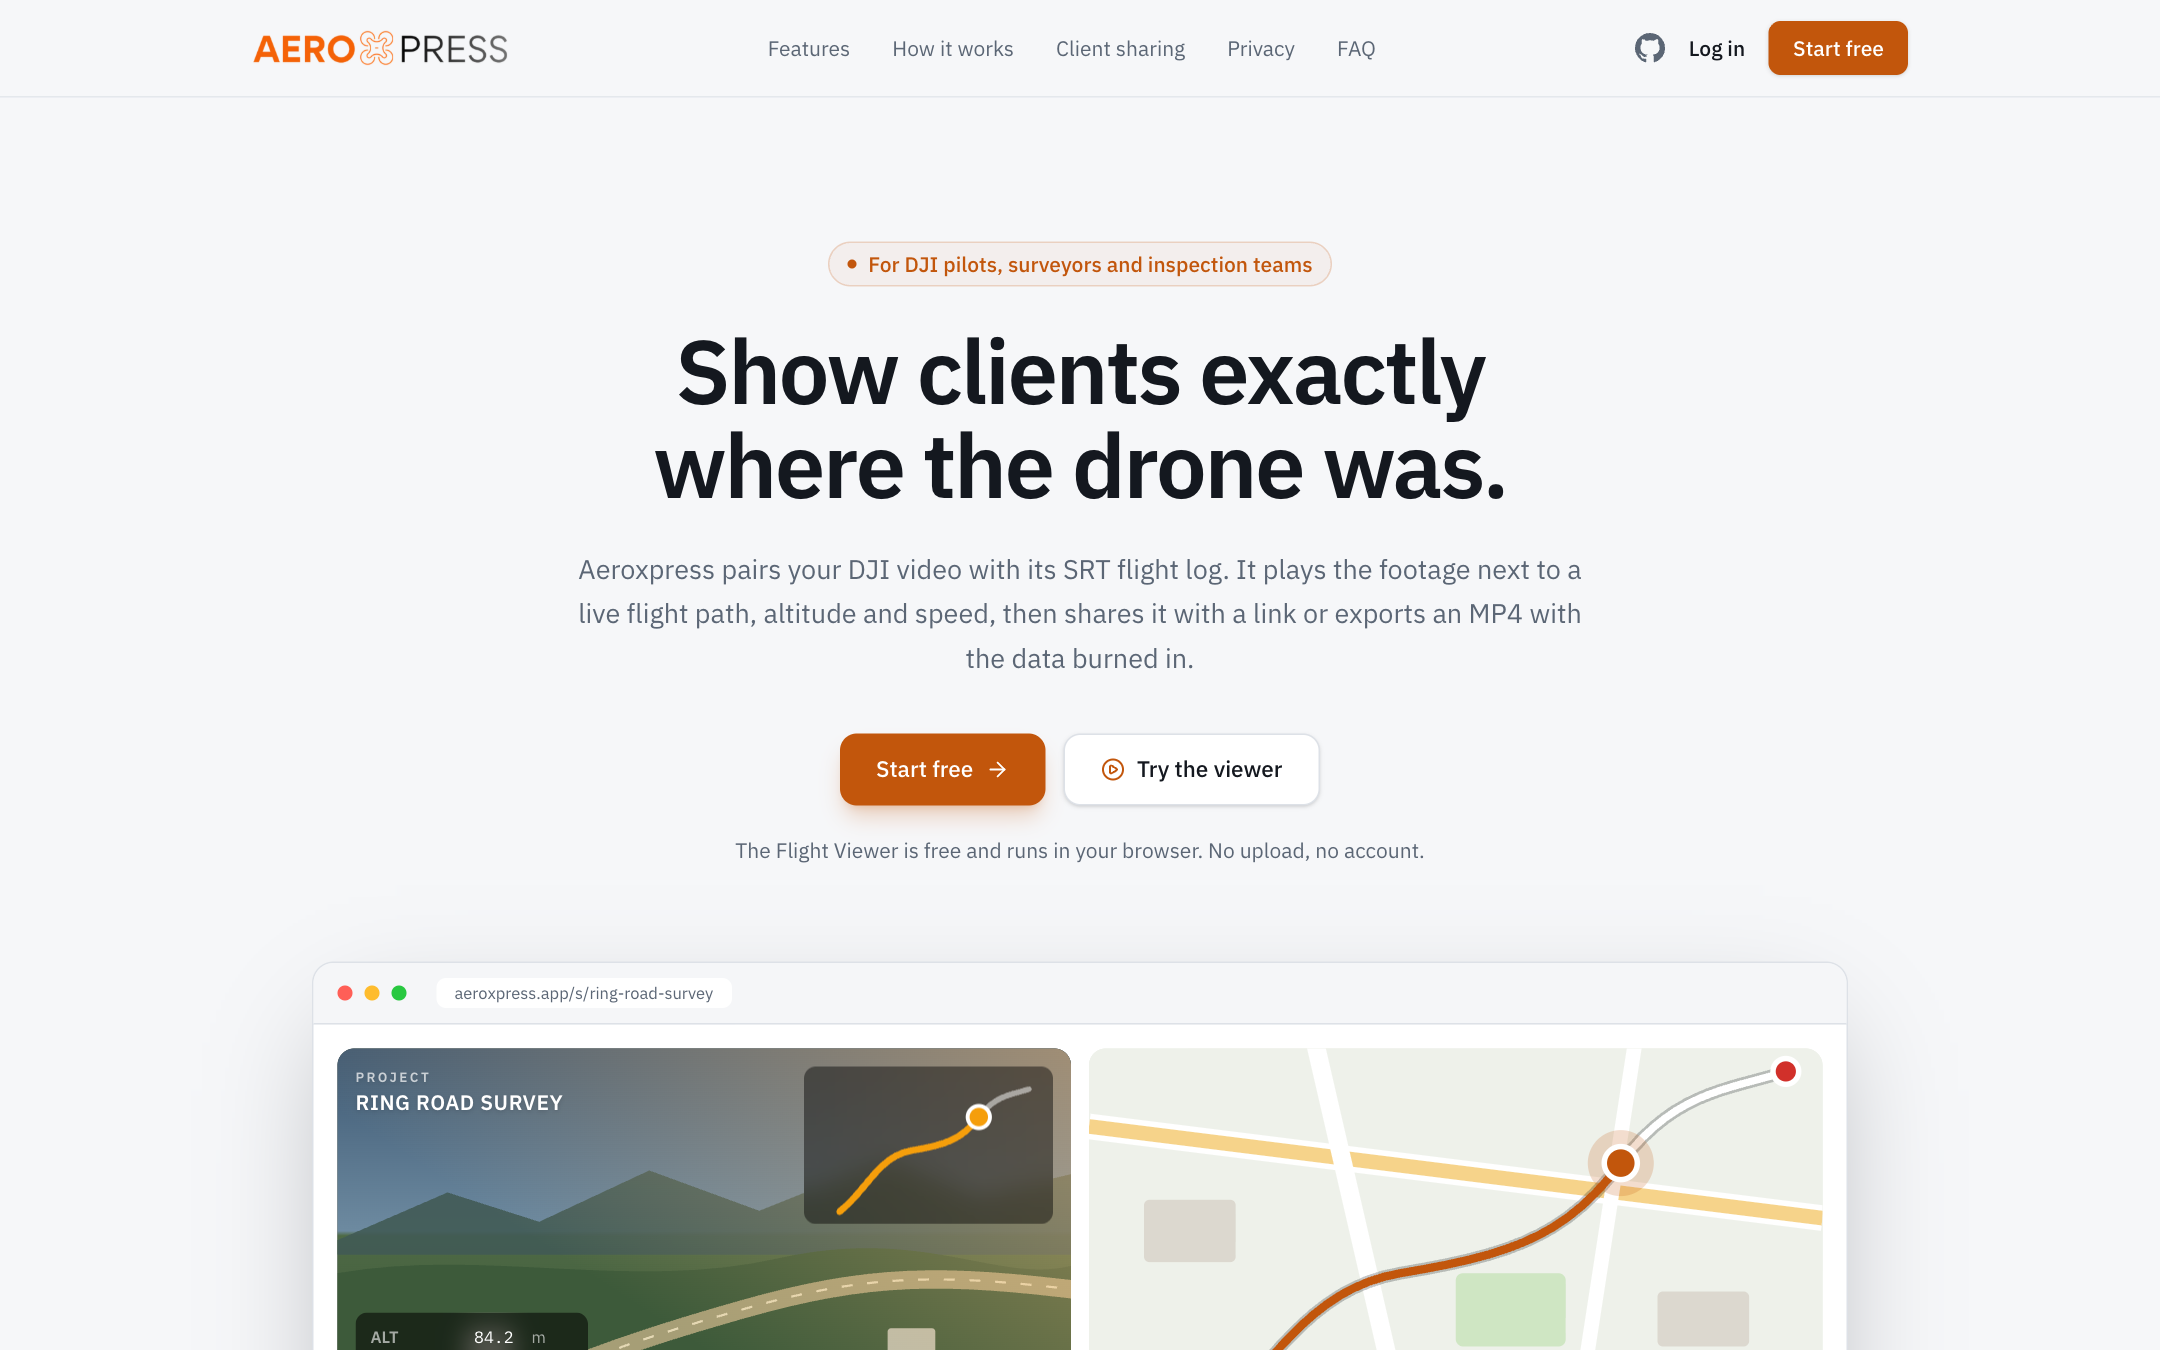
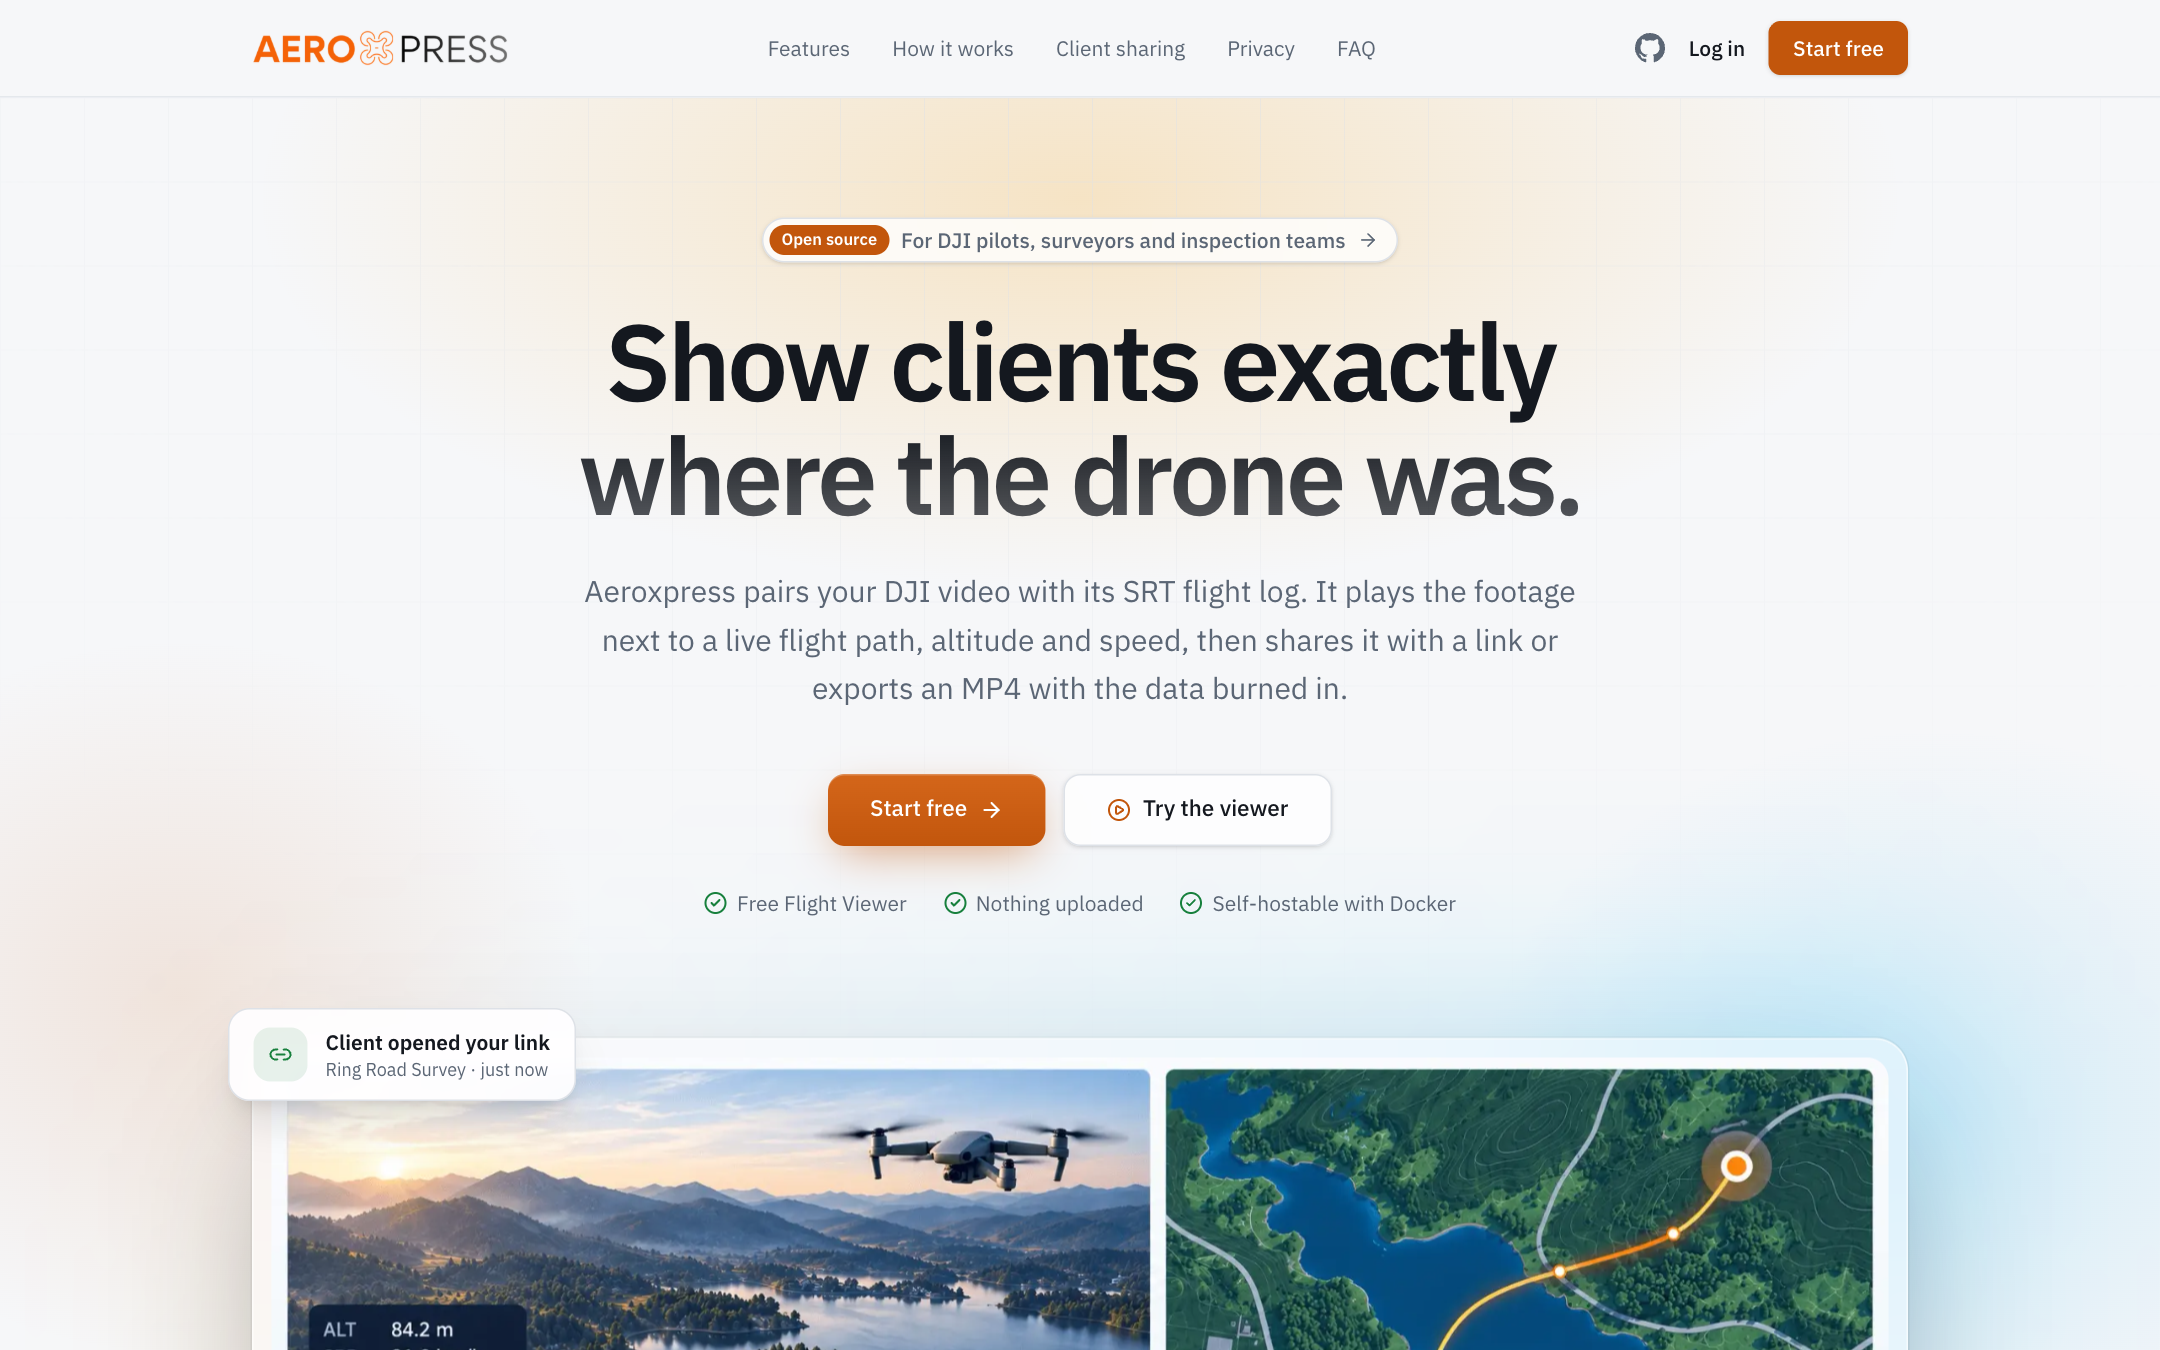
Redesign hero with product image and add glass showcase to login pages

diff --git a/src/app/page.tsx b/src/app/page.tsx
@@ -1,9 +1,11 @@
 import type { Metadata } from "next";
+import Image from "next/image";
 import Link from "next/link";
 import { connection } from "next/server";
 import {
   ArrowRight,
   BarChart3,
+  CircleCheck,
   Clapperboard,
   Clock,
   Download,
@@ -27,7 +29,7 @@ import { GitHubLink } from "@/components/brand/GitHubLink";
 import { Logo } from "@/components/brand/Logo";
 import { ManagedBy } from "@/components/brand/ManagedBy";
 import { REPO_URL } from "@/lib/site/links";
-import { ProductMock } from "@/components/landing/ProductMock";
+import heroProduct from "@/components/landing/hero-product.webp";
 import { getCurrentUser } from "@/lib/auth/session.server";
 import { getSiteSettings } from "@/lib/site/settings.server";
 
@@ -161,31 +163,86 @@ export default async function LandingPage() {
 
       <main className="flex-1">
         {/* Hero */}
-        <section className="relative overflow-hidden">
-          <div
-            className="absolute inset-0 -z-10 bg-[linear-gradient(to_right,var(--border)_1px,transparent_1px),linear-gradient(to_bottom,var(--border)_1px,transparent_1px)] bg-[size:48px_48px] [mask-image:radial-gradient(ellipse_at_top,black_30%,transparent_75%)] opacity-60"
-            aria-hidden="true"
-          />
-          <div className="mx-auto max-w-6xl px-4 pt-16 pb-20 sm:px-6 sm:pt-24">
-            <div className="mx-auto max-w-3xl text-center">
-              <p className="inline-flex items-center gap-2 rounded-full border border-primary/20 bg-primary/5 px-3 py-1 text-xs font-medium text-primary sm:text-sm">
-                <span className="size-1.5 rounded-full bg-primary" aria-hidden="true" />
-                {site.heroEyebrow}
-              </p>
-              <h1 className="mt-6 text-4xl font-semibold tracking-tight text-balance sm:text-6xl sm:leading-[1.05]">{site.heroTitle}</h1>
-              <p className="mx-auto mt-6 max-w-2xl text-lg leading-relaxed text-pretty text-muted-foreground">{site.heroSubtitle}</p>
-              <div className="mt-9 flex flex-col items-center justify-center gap-3 sm:flex-row">
-                <Link href={primaryHref} className="inline-flex h-12 items-center gap-2 rounded-xl bg-primary px-6 font-medium text-primary-foreground shadow-lg shadow-primary/25 hover:bg-primary/90">
-                  {primaryLabel} <ArrowRight className="size-4" aria-hidden="true" />
+        <section className="relative isolate overflow-hidden">
+          {/* Ambient light: warm brand glow top-left, cool glow matching the map on the right, fine grid fading out. */}
+          <div className="pointer-events-none absolute inset-0 -z-10" aria-hidden="true">
+            <div className="absolute -top-48 left-1/2 h-[520px] w-[1100px] -translate-x-1/2 rounded-full bg-[radial-gradient(closest-side,rgba(245,158,11,0.22),transparent)]" />
+            <div className="absolute top-[420px] -right-40 h-[520px] w-[620px] rounded-full bg-[radial-gradient(closest-side,rgba(14,165,233,0.14),transparent)]" />
+            <div className="absolute top-[360px] -left-40 h-[480px] w-[560px] rounded-full bg-[radial-gradient(closest-side,rgba(194,86,12,0.12),transparent)]" />
+            <div className="absolute inset-0 bg-[linear-gradient(to_right,var(--border)_1px,transparent_1px),linear-gradient(to_bottom,var(--border)_1px,transparent_1px)] bg-[size:56px_56px] [mask-image:radial-gradient(ellipse_70%_55%_at_50%_0%,black,transparent)] opacity-50" />
+          </div>
+
+          <div className="mx-auto max-w-6xl px-4 pt-14 pb-24 sm:px-6 sm:pt-20">
+            <div className="mx-auto max-w-4xl text-center">
+              <a
+                href={REPO_URL}
+                target="_blank"
+                rel="noopener noreferrer"
+                className="group inline-flex items-center gap-2 rounded-full border border-border bg-card/80 py-1 pr-3 pl-1 text-xs font-medium shadow-sm backdrop-blur transition-colors hover:border-primary/40 sm:text-sm"
+              >
+                <span className="shrink-0 rounded-full bg-primary px-2 py-0.5 text-[11px] font-semibold whitespace-nowrap text-primary-foreground">Open source</span>
+                <span className="text-left text-muted-foreground group-hover:text-foreground">{site.heroEyebrow}</span>
+                <ArrowRight className="size-3.5 shrink-0 text-muted-foreground transition-transform group-hover:translate-x-0.5" aria-hidden="true" />
+              </a>
+              <h1 className="mt-7 bg-gradient-to-b from-[#14181f] via-[#14181f] to-[#14181f]/70 bg-clip-text text-[2.6rem] leading-[1.05] font-semibold tracking-[-0.035em] text-balance text-transparent sm:text-6xl lg:text-7xl">
+                {site.heroTitle}
+              </h1>
+              <p className="mx-auto mt-6 max-w-2xl text-lg leading-relaxed text-pretty text-muted-foreground sm:text-xl">{site.heroSubtitle}</p>
+              <div className="mt-10 flex flex-col items-center justify-center gap-3 sm:flex-row">
+                <Link
+                  href={primaryHref}
+                  className="group inline-flex h-12 items-center gap-2 rounded-xl bg-gradient-to-b from-[#d4661a] to-primary px-7 font-medium text-primary-foreground shadow-[0_10px_30px_-8px_rgba(194,86,12,0.6),inset_0_1px_0_rgba(255,255,255,0.25)] transition-transform hover:-translate-y-0.5"
+                >
+                  {primaryLabel} <ArrowRight className="size-4 transition-transform group-hover:translate-x-0.5" aria-hidden="true" />
                 </Link>
-                <Link href="/viewer" className="inline-flex h-12 items-center gap-2 rounded-xl border border-border bg-card px-6 font-medium shadow-sm hover:bg-muted">
+                <Link
+                  href="/viewer"
+                  className="inline-flex h-12 items-center gap-2 rounded-xl border border-border bg-card/80 px-7 font-medium shadow-sm backdrop-blur transition-colors hover:bg-card"
+                >
                   <PlayCircle className="size-4 text-primary" aria-hidden="true" /> {site.ctaSecondary}
                 </Link>
               </div>
-              <p className="mt-5 text-sm text-muted-foreground">The Flight Viewer is free and runs in your browser. No upload, no account.</p>
+              <ul className="mt-7 flex flex-wrap items-center justify-center gap-x-6 gap-y-2 text-sm text-muted-foreground">
+                {["Free Flight Viewer", "Nothing uploaded", "Self-hostable with Docker"].map((t) => (
+                  <li key={t} className="flex items-center gap-1.5">
+                    <CircleCheck className="size-4 text-success" aria-hidden="true" /> {t}
+                  </li>
+                ))}
+              </ul>
             </div>
-            <div className="mt-16">
-              <ProductMock />
+
+            {/* Product shot in a glass frame, with a soft glow and two floating status cards. */}
+            <div className="relative mx-auto mt-16 max-w-6xl sm:mt-20">
+              <div className="absolute -inset-x-6 -inset-y-8 -z-10 rounded-[40px] bg-gradient-to-tr from-[#f59e0b]/25 via-transparent to-sky-400/25 blur-3xl" aria-hidden="true" />
+              <div className="rounded-[22px] border border-white/60 bg-white/50 p-2 shadow-[0_40px_100px_-30px_rgba(20,24,31,0.45)] ring-1 ring-black/5 backdrop-blur-xl sm:p-3">
+                <Image
+                  src={heroProduct}
+                  alt="Aeroxpress player: drone video with a telemetry overlay, the synced flight path on a map, the altitude profile and flight statistics"
+                  priority
+                  placeholder="blur"
+                  sizes="(min-width: 1152px) 1152px, 100vw"
+                  className="h-auto w-full rounded-2xl"
+                />
+              </div>
+
+              <div className="absolute -top-5 -left-4 hidden items-center gap-3 rounded-2xl border border-border bg-card/90 px-4 py-3 shadow-xl backdrop-blur lg:flex">
+                <span className="flex size-9 items-center justify-center rounded-xl bg-success/10 text-success">
+                  <Link2 className="size-4" aria-hidden="true" />
+                </span>
+                <div className="text-left">
+                  <p className="text-sm font-semibold">Client opened your link</p>
+                  <p className="text-xs text-muted-foreground">Ring Road Survey · just now</p>
+                </div>
+              </div>
+              <div className="absolute -right-6 -bottom-12 hidden items-center gap-3 rounded-2xl border border-border bg-card/90 px-4 py-3 shadow-xl backdrop-blur lg:flex">
+                <span className="flex size-9 items-center justify-center rounded-xl bg-primary/10 text-primary">
+                  <Download className="size-4" aria-hidden="true" />
+                </span>
+                <div className="text-left">
+                  <p className="text-sm font-semibold">Export ready</p>
+                  <p className="text-xs text-muted-foreground">4K MP4 · telemetry burned in</p>
+                </div>
+              </div>
             </div>
           </div>
         </section>

diff --git a/src/app/(auth)/layout.tsx b/src/app/(auth)/layout.tsx
@@ -1,6 +1,9 @@
+import Image from "next/image";
 import { Logo } from "@/components/brand/Logo";
-import { FlightArt } from "@/components/brand/FlightArt";
 import { ManagedBy } from "@/components/brand/ManagedBy";
+import sketch from "@/components/brand/auth-survey-sketch.jpg";
+
+const POINTS = ["GPS sync", "Client links", "MP4 overlays"];
 
 export default function AuthLayout({ children }: { children: React.ReactNode }) {
   return (
@@ -14,11 +17,41 @@ export default function AuthLayout({ children }: { children: React.ReactNode }) 
           © {new Date().getFullYear()} Aeroxpress · <ManagedBy />
         </p>
       </div>
-      <aside className="relative hidden overflow-hidden bg-[#101419] lg:block" aria-hidden="true">
-        <FlightArt className="absolute inset-0 h-full w-full" />
-        <div className="absolute inset-x-12 bottom-12 text-white">
-          <p className="max-w-md text-2xl font-semibold leading-snug tracking-tight">Where the drone was, when it was there, and what the camera was doing.</p>
-          <p className="mt-3 max-w-md text-sm text-white/60">Video, flight path and telemetry in one synchronized view, ready to share with a link.</p>
+
+      {/* Showcase panel: the square sketch is contained (never cropped); a compact glass card floats over its foreground. */}
+      <aside className="hidden p-4 lg:block">
+        <div className="relative h-full min-h-[600px] overflow-hidden rounded-[28px] bg-white shadow-[0_30px_80px_-30px_rgba(20,24,31,0.35)] ring-1 ring-black/5">
+          <Image
+            src={sketch}
+            alt="Hand-drawn survey of a highway and railway corridor, with a drone's flight path, GPS readout and inspection points"
+            fill
+            priority
+            placeholder="blur"
+            sizes="50vw"
+            className="object-contain object-top px-6 pt-6 pb-28 xl:px-10 xl:pt-10"
+          />
+          {/* Colour for the glass to pick up. */}
+          <div className="pointer-events-none absolute -bottom-24 -left-16 size-80 rounded-full bg-[#f59e0b]/30 blur-3xl" aria-hidden="true" />
+          <div className="pointer-events-none absolute -right-10 -bottom-28 size-80 rounded-full bg-sky-400/25 blur-3xl" aria-hidden="true" />
+
+          <div className="absolute inset-x-6 bottom-6 rounded-2xl border border-white/70 bg-white/45 p-5 shadow-[0_20px_50px_-20px_rgba(20,24,31,0.45)] ring-1 ring-black/5 backdrop-blur-xl backdrop-saturate-150 xl:inset-x-10 xl:bottom-10 xl:p-6">
+            <p className="flex items-center gap-2 text-[11px] font-semibold tracking-[0.16em] text-primary uppercase">
+              <span className="relative flex size-2">
+                <span className="absolute inline-flex h-full w-full animate-ping rounded-full bg-primary opacity-50 motion-reduce:hidden" />
+                <span className="relative inline-flex size-2 rounded-full bg-primary" />
+              </span>
+              Flight log to field report
+            </p>
+            <h2 className="mt-2 text-xl leading-snug font-semibold tracking-tight text-[#14181f] xl:text-2xl">Every frame, pinned to its exact spot.</h2>
+            <p className="mt-1 text-sm text-[#3b4452]">Footage and GPS, synced in one shareable view.</p>
+            <ul className="mt-4 flex flex-wrap gap-1.5">
+              {POINTS.map((p) => (
+                <li key={p} className="rounded-full border border-white/80 bg-white/60 px-2.5 py-0.5 text-xs font-medium text-[#14181f]/80">
+                  {p}
+                </li>
+              ))}
+            </ul>
+          </div>
         </div>
       </aside>
     </div>

diff --git a/src/app/globals.css b/src/app/globals.css
@@ -138,10 +138,3 @@
     @apply bg-background text-foreground text-[13px];
   }
 }
-
-/* FlightArt: animated marker, or a static one when the user prefers reduced motion. */
-.fa-drone-static { display: none; }
-@media (prefers-reduced-motion: reduce) {
-  .fa-drone { display: none; }
-  .fa-drone-static { display: inline; }
-}
